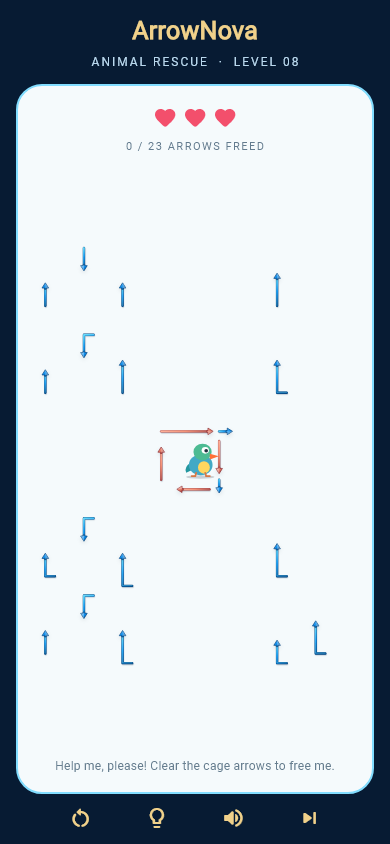
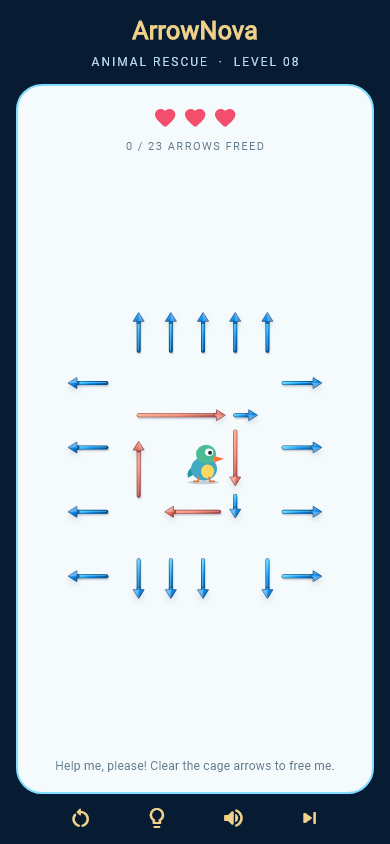
Center Rescue animals among surrounding arrows

diff --git a/mobile/lib/game/puzzle.dart b/mobile/lib/game/puzzle.dart
@@ -171,6 +171,60 @@ class LevelCatalog {
         : endless
         ? EndlessCatalog.arrowCount(level)
         : arrowCount(level);
+    if (rescue && level <= 10) {
+      // Keep the rescue animal visibly enclosed by a compact ring of arrows
+      // from the first mission. These are full puzzles, not tutorial boards.
+      const width = 20, height = 22;
+      final centerX = width ~/ 2, centerY = height ~/ 2;
+      final cage = <List<Cell>>[
+        [for (var x = centerX - 4; x <= centerX + 1; x++) Cell(x, centerY - 3)],
+        [for (var y = centerY - 2; y <= centerY + 1; y++) Cell(centerX + 2, y)],
+        [for (var x = centerX + 1; x >= centerX - 2; x--) Cell(x, centerY + 3)],
+        [for (var y = centerY + 2; y >= centerY - 1; y--) Cell(centerX - 4, y)],
+        [Cell(centerX + 2, centerY - 3), Cell(centerX + 3, centerY - 3)],
+        [Cell(centerX + 2, centerY + 2), Cell(centerX + 2, centerY + 3)],
+      ];
+      final top = <List<Cell>>[
+        for (final x in [6, 10, 14, 8, 12])
+          [Cell(x, 4), Cell(x, 3), Cell(x, 2)],
+      ];
+      final bottom = <List<Cell>>[
+        for (final x in [6, 10, 14, 8, 12])
+          [Cell(x, 17), Cell(x, 18), Cell(x, 19)],
+      ];
+      final left = <List<Cell>>[
+        for (final y in [6, 10, 14, 18, 7, 12, 17])
+          [Cell(4, y), Cell(3, y), Cell(2, y)],
+      ];
+      final right = <List<Cell>>[
+        for (final y in [6, 10, 14, 18, 7, 12, 17])
+          [Cell(15, y), Cell(16, y), Cell(17, y)],
+      ];
+      final ring = [
+        ...top.take(3),
+        ...bottom.take(3),
+        ...left.take(4),
+        ...right.take(4),
+        ...top.skip(3),
+        ...bottom.skip(3),
+        ...left.skip(4),
+        ...right.skip(4),
+      ];
+      final allPaths = [
+        ...cage,
+        for (var i = 0; i < count - cage.length; i++) ring[i],
+      ];
+      return Puzzle(
+        level,
+        width,
+        height,
+        [
+          for (var id = 0; id < allPaths.length; id++)
+            ArrowPath(id, allPaths[id]),
+        ],
+        rescueCageIds: const {0, 1, 2, 3},
+      );
+    }
     final chain = rescue
         ? (count >= 40 ? 5 : 4)
         : level <= 5

diff --git a/mobile/lib/victory_screen.dart b/mobile/lib/victory_screen.dart
@@ -197,7 +197,7 @@ class VictoryScreen extends StatelessWidget {
                                     : rescueMode
                                     ? rescueFinishedAll
                                           ? 'All animals rescued!'
-                                          : 'Rescue mission ${level} complete'
+                                          : 'Mission $level completed'
                                     : endless
                                     ? 'Next round'
                                     : dailyLabel != null
